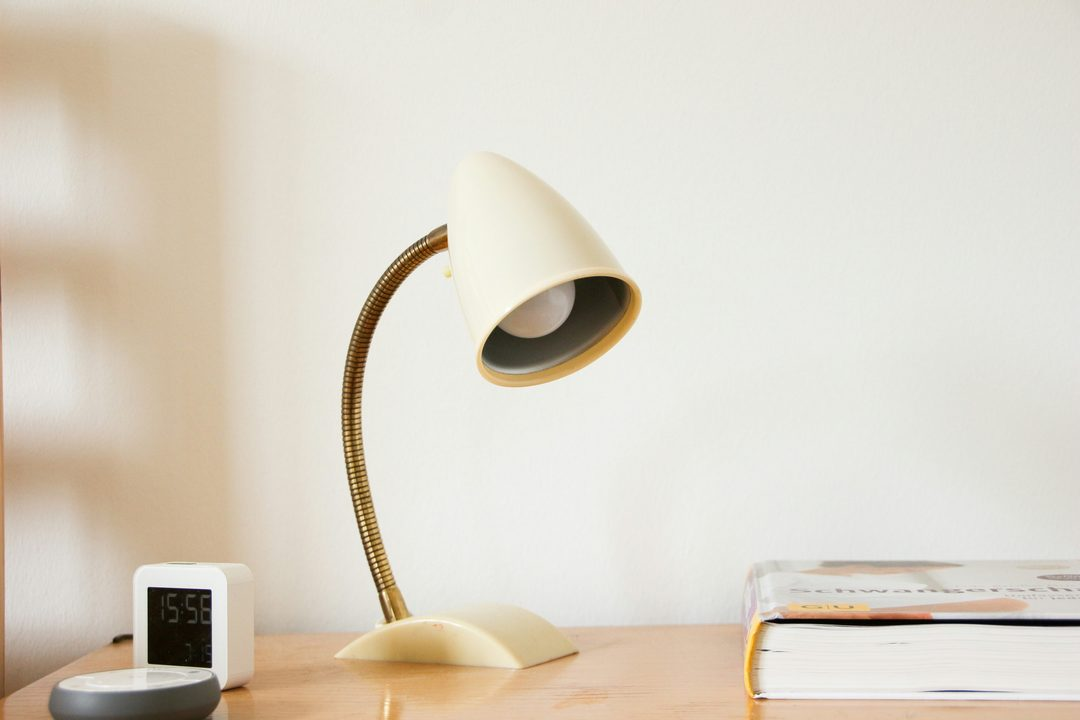
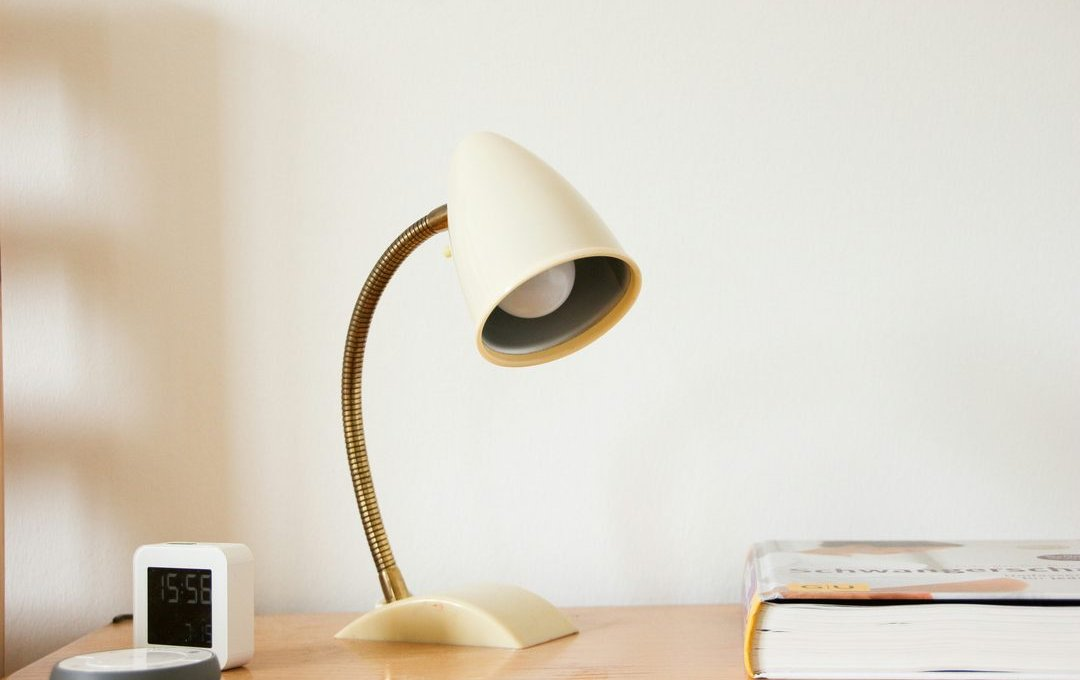
fix: 카드뉴스 사진 크롭/가격표시/포인트색상 수정
- 스톡 사진을 카드 표시 영역(1080x680)에 맞춰 미리 크롭 — CSS
  object-fit:cover의 중앙 크롭이 아치형 스탠드 램프 헤드 등 사진
  상단부 피사체를 잘라내는 문제였음
- meta_line에서 가격 제거, 평점/리뷰수만 표시
- 포인트 색상을 테라코타(#C1694F)에서 버건디(#7A2333)로 변경
- card-005 추가: 위 수정사항이 반영된 card-004의 대체 게시물
  (card-004는 이미 실게시돼 API로 수정 불가라 그대로 둠)

diff --git a/scripts/render_card_news.py b/scripts/render_card_news.py
@@ -68,7 +68,7 @@ html, body {{
   font-weight: 800;
   font-size: 22px;
   letter-spacing: 0.5px;
-  color: #C1694F;
+  color: #7A2333;
 }}
 
 .brand-sub {{
@@ -86,7 +86,7 @@ html, body {{
 
 COVER_TEMPLATE = """
 <div class="card" style="background: linear-gradient(165deg, #F6F1EA 0%, #EDE1D3 55%, #E3CBB4 100%); align-items: center; justify-content: center; text-align: center; padding: 0 90px;">
-  <div style="background: #FFFFFF; border: 1.5px solid #E3CBB4; border-radius: 999px; padding: 14px 32px; font-weight: 600; font-size: 26px; color: #C1694F; margin-bottom: 48px;">
+  <div style="background: #FFFFFF; border: 1.5px solid #E3CBB4; border-radius: 999px; padding: 14px 32px; font-weight: 600; font-size: 26px; color: #7A2333; margin-bottom: 48px;">
     {hook}
   </div>
   <div style="font-weight: 800; font-size: 64px; line-height: 1.35; color: #2B2622; white-space: pre-line;">
@@ -107,7 +107,7 @@ COVER_TEMPLATE = """
 
 TIP_TEMPLATE = """
 <div class="card" style="background: #FFFFFF; padding: 120px 90px 0 90px;">
-  <div style="font-weight: 800; font-size: 130px; color: #EDE1D3; line-height: 1; -webkit-text-stroke: 3px #C1694F;">
+  <div style="font-weight: 800; font-size: 130px; color: #EDE1D3; line-height: 1; -webkit-text-stroke: 3px #7A2333;">
     {number}
   </div>
   <div style="margin-top: 24px; font-weight: 800; font-size: 46px; color: #2B2622; line-height: 1.3;">
@@ -130,13 +130,13 @@ TIP_PHOTO_TEMPLATE = """
 <div class="card" style="background: #FFFFFF;">
   <img src="{photo_uri}" style="width: {width}px; height: 680px; object-fit: cover; display: block;">
   <div style="padding: 44px 90px 0 90px;">
-    <div style="font-weight: 800; font-size: 56px; color: #EDE1D3; line-height: 1; -webkit-text-stroke: 2px #C1694F;">
+    <div style="font-weight: 800; font-size: 56px; color: #EDE1D3; line-height: 1; -webkit-text-stroke: 2px #7A2333;">
       {number}
     </div>
     <div style="margin-top: 14px; font-weight: 800; font-size: 38px; color: #2B2622; line-height: 1.3;">
       {title}
     </div>
-    <div style="margin-top: 10px; font-weight: 600; font-size: 21px; color: #C1694F;">
+    <div style="margin-top: 10px; font-weight: 600; font-size: 21px; color: #7A2333;">
       {meta_line}
     </div>
     <div style="margin-top: 16px; font-weight: 400; font-size: 22px; color: #59503F; line-height: 1.5; white-space: pre-line;">
@@ -158,7 +158,7 @@ OUTRO_TEMPLATE = """
   <div style="font-weight: 800; font-size: 52px; color: #F6F1EA; line-height: 1.4; white-space: pre-line;">
     {message}
   </div>
-  <div style="margin-top: 40px; font-weight: 500; font-size: 24px; color: #C1694F;">
+  <div style="margin-top: 40px; font-weight: 500; font-size: 24px; color: #7A2333;">
     저장하고 나중에 참고하세요 🔖
   </div>
   <div class="footer" style="bottom: 56px;">
